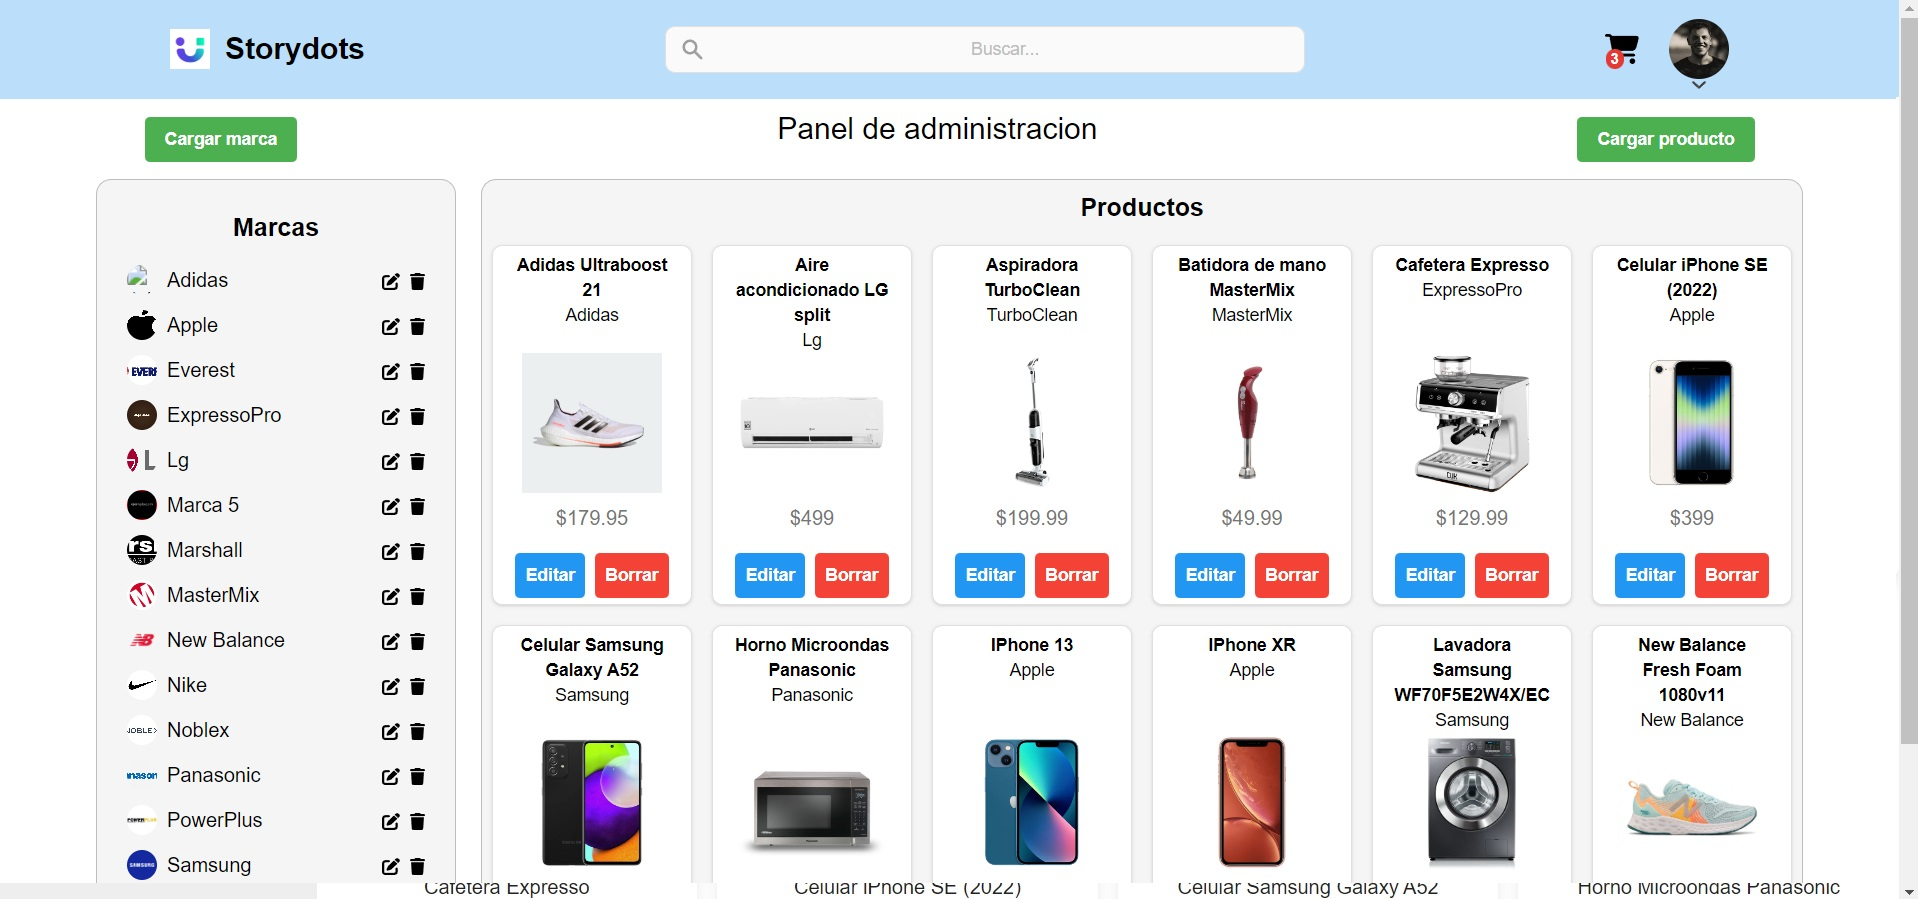
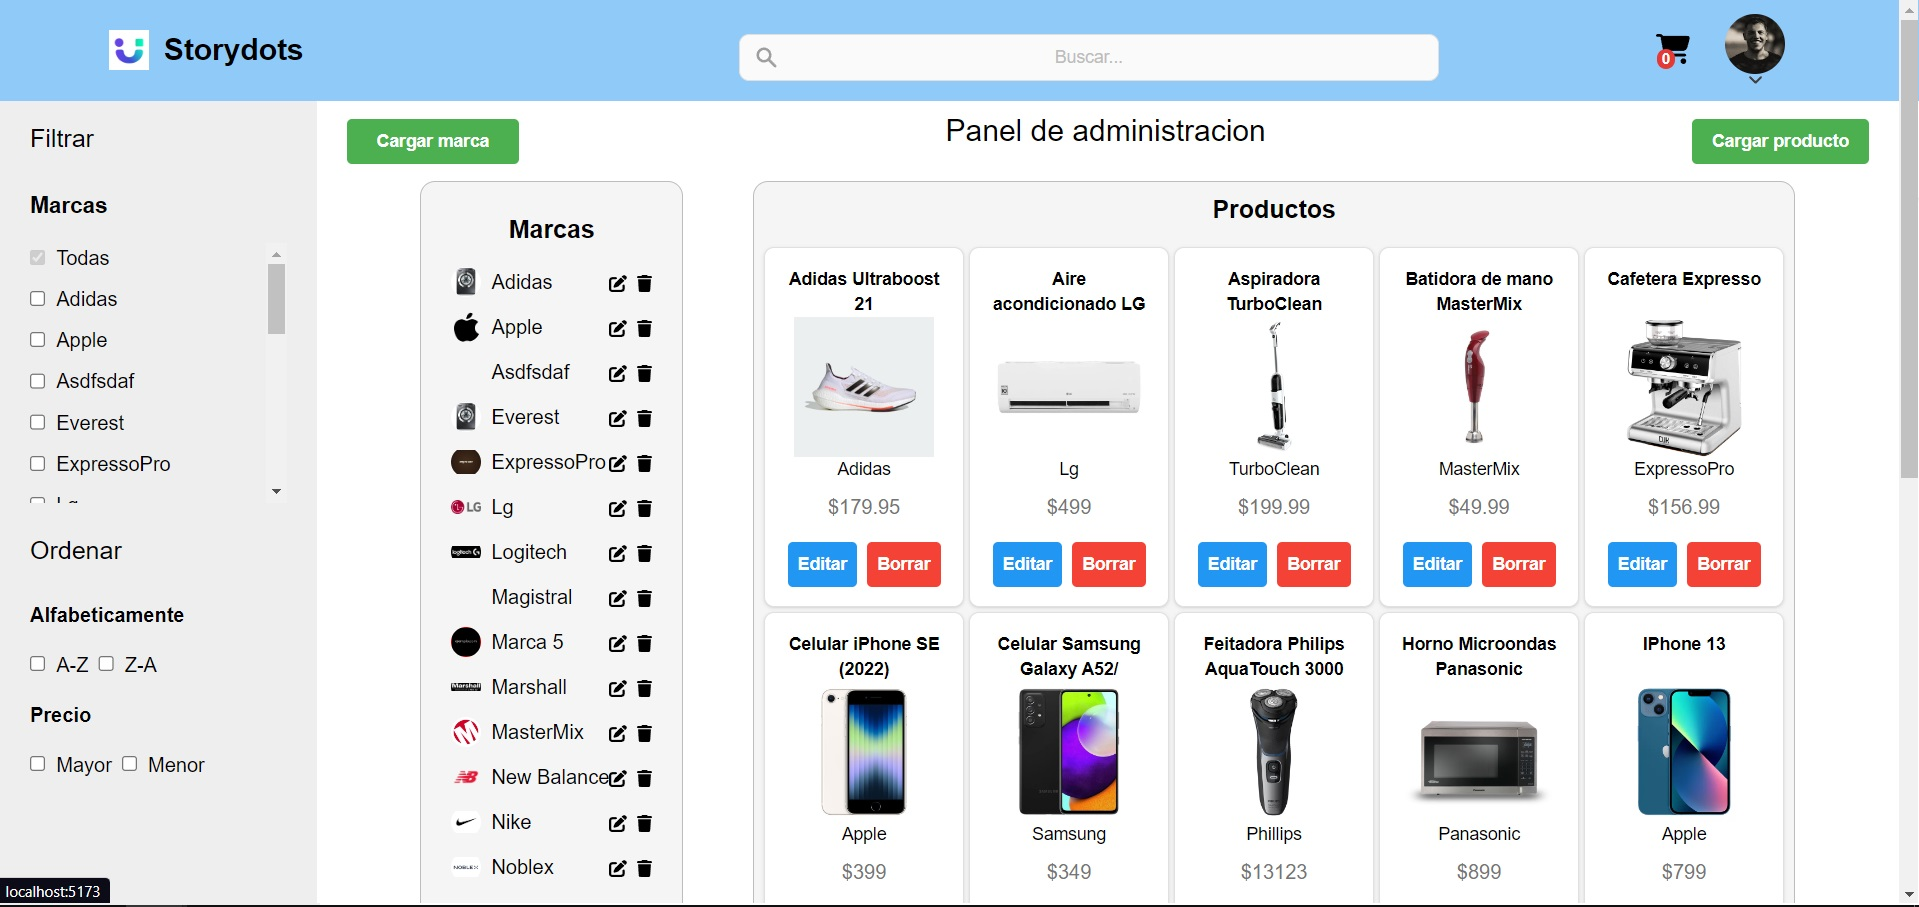
update readme

diff --git a/client/README.md b/client/README.md
@@ -91,11 +91,12 @@ Si completaste el extra 2. en el backend, podés mostrar también información d
 
 <p align="left"><img height="200" src="./src/assets/images/Screenshots/product_detail.jpg" alt="usermenu" /><p>
 
-<span id="admin"></span>
+<span id="adminProduct"></span>
 
-### Panel de administracion:
+### Panel de administracion / Productos - marcas:
 
 - La misma Navbar en la parte superior.
+- El mismo sidebar para interactuar con los productos.
 - Al ingresar podemos ver dos botones para crear nueva marca o producto lso cuales nos despliega un formulario para cada uno.
 - A la izqueirda podemos ver todas las marcas cargadas con la posibilidad de editarlas/eliminarlas.
 - a la derecha la grilla de productos cargados con la posibilidad de editarlos/ eliminarlos.
@@ -107,3 +108,17 @@ Si completaste el extra 2. en el backend, podés mostrar también información d
 
 - Al cargar/editar un producto se nos abre el siguiente formulario, al editar aparecen los datos precargados con algunas validaciones de nombre/url, En el apartado de marcas nos aparece un selector para elegir una marca ya cargada o podemos tipear el nombre de una nueva.
 <p align="left"><img height="200" src="./src/assets/images/Screenshots/form_products.jpg" alt="form_products" /><p>
+
+<span id="adminUser"></span>
+
+### Panel de administracion / Usuarios:
+
+- La misma Navbar en la parte superior.
+- El mismo sidebar para interactuar con los usuarios.
+- Al ingresar podemos ver el listad ode usuarios que se han logueado en nuestro sitio con la posibilidad de modificarlos/borrarlos
+
+<p align="left"><img height="200" src="./src/assets/images/Screenshots/users.jpg" alt="users_panel" /><p>
+
+- Al editar un usuario se nos abre el siguiente formulariocon los datos precargados para poder modificarlos, o cambiarle el rol en la pagina.
+
+<p align="left"><img height="200" src="./src/assets/images/Screenshots/editUser.jpg" alt="form_brand" /><p>
